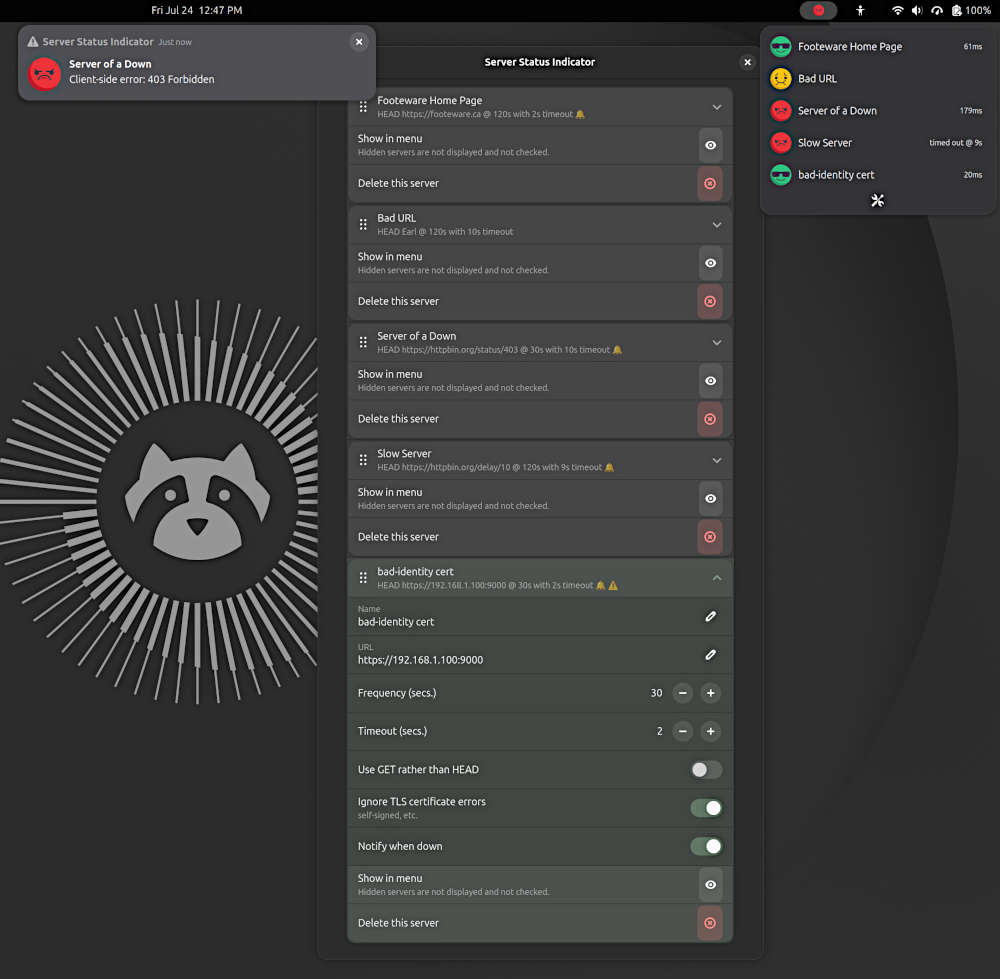
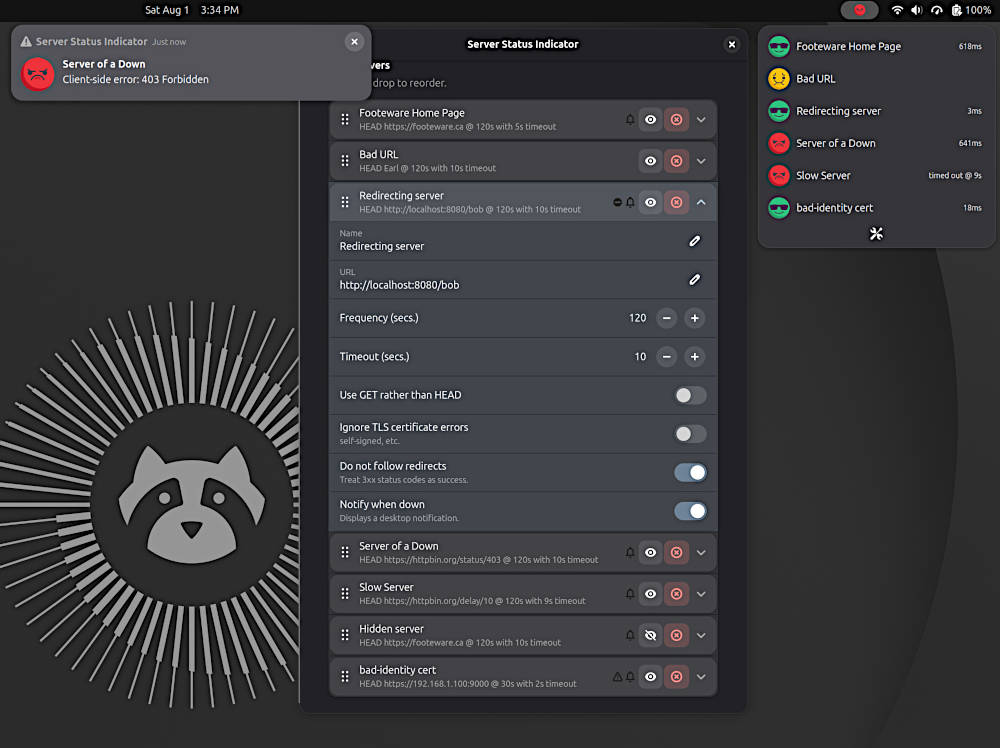
Add css class to expander buttons and update screenshots

Changed region(s): [[0.0, 0.0, 1.0, 0.984]]

diff --git a/prefs.js b/prefs.js
@@ -160,9 +160,10 @@ export default class ServerStatusPreferences extends ExtensionPreferences {
 
         // add
         const addRow = new Adw.ButtonRow({
-            title: 'Add a new server',
+            title: 'Add a New Server',
         });
         addRow.set_start_icon_name('list-add-symbolic');
+        addRow.add_css_class('suggested-action');
         addRow.connect('activated', () => {
             this.#doAdd();
         });
